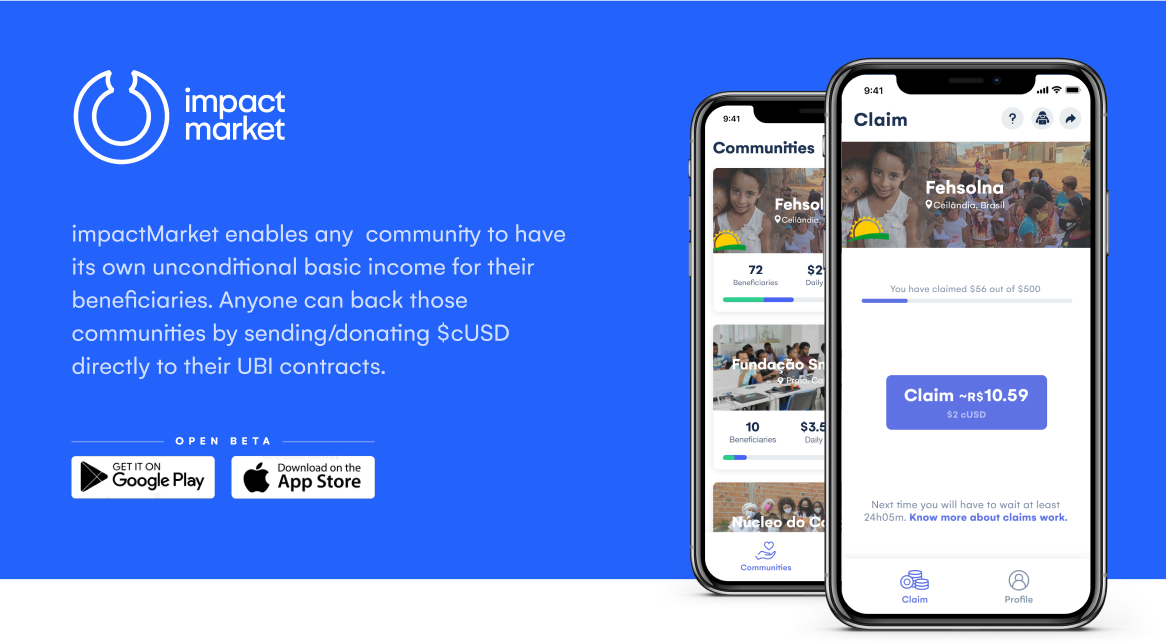
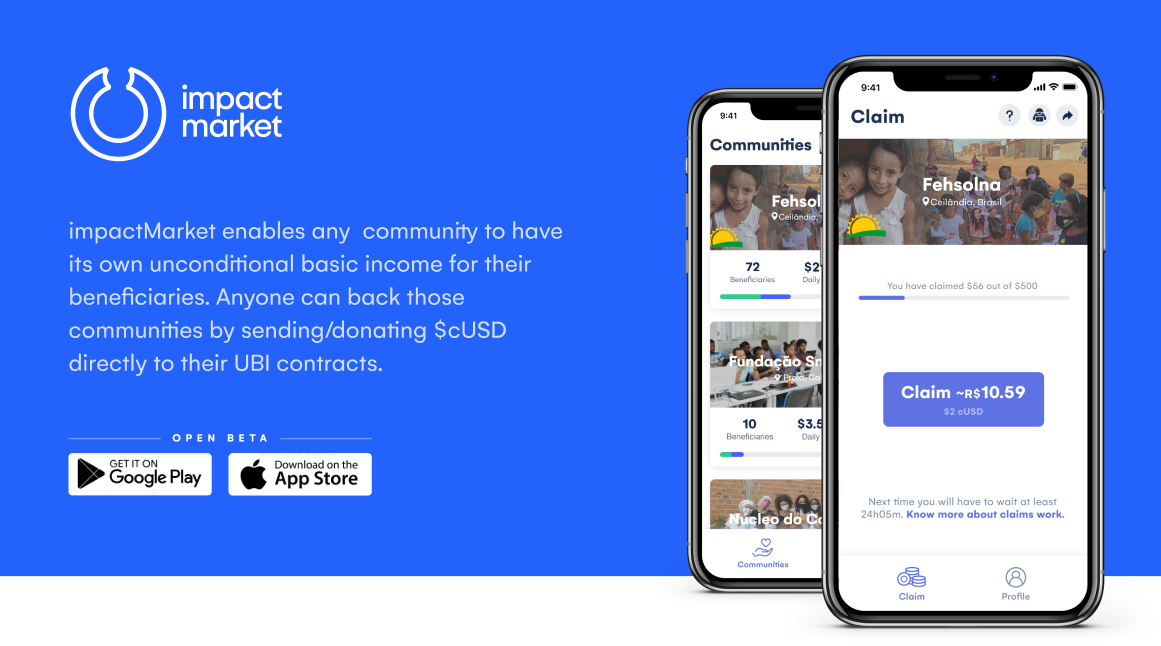
socialshare picture + typos

diff --git a/public/index.html b/public/index.html
@@ -11,10 +11,10 @@
     <meta name="author" content="impactMarket">
     <meta name="keywords" content="impactMarket, community, own, unconditional, basic, income, beneficiaries, anyone, cUSD, directly, UBI, contracts"/>
     <title>impactMarket - Decentralized UBI</title>
-    <meta property="og:image" content="public/assets/socialshare.png">
+    <meta property="og:image" content="%PUBLIC_URL%/assets/socialshare.png">
     <meta property="og:image:type" content="image/png">
-    <meta property="og:image:width" content="1166">
-    <meta property="og:image:height" content="641">
+    <meta property="og:image:width" content="1161">
+    <meta property="og:image:height" content="646">
     <link rel="apple-touch-icon" href="%PUBLIC_URL%/logo192.png" />
     <!--
       manifest.json provides metadata used when your web app is installed on a

diff --git a/src/components/GlobalSummary.tsx b/src/components/GlobalSummary.tsx
@@ -100,7 +100,7 @@ export default function GlobalSummary(props: { globalValues: IGlobalDailyState; 
                 </Typography>
                 <Grid container justify="space-between" spacing={2}>
                     {inflowOutflowValues.map((total) => (
-                        <Grid key={total.title} item xs={6} sm={3}>
+                        <Grid key={total.title} item xs={12} sm={6} md={3}>
                             <Paper style={{ padding: 16 }}>
                                 {/* <Typography variant="h4">
                                     {total.title}

diff --git a/src/components/Inflow.tsx b/src/components/Inflow.tsx
@@ -57,7 +57,7 @@ export default function Inflow(props: { globalValues: IGlobalDailyState[] }) {
                     postsubtitle: '',
                     data: props.globalValues.map((g) => ({ name: new Date(g.date).getTime(), uv: g.backers })).reverse(),
                     line: true,
-                    tooltip: '{{value}} new backers on {{date}}',
+                    tooltip: '{{value}} monthy active backers on {{date}}',
                 },
                 {
                     title: 'Funding Rate',
